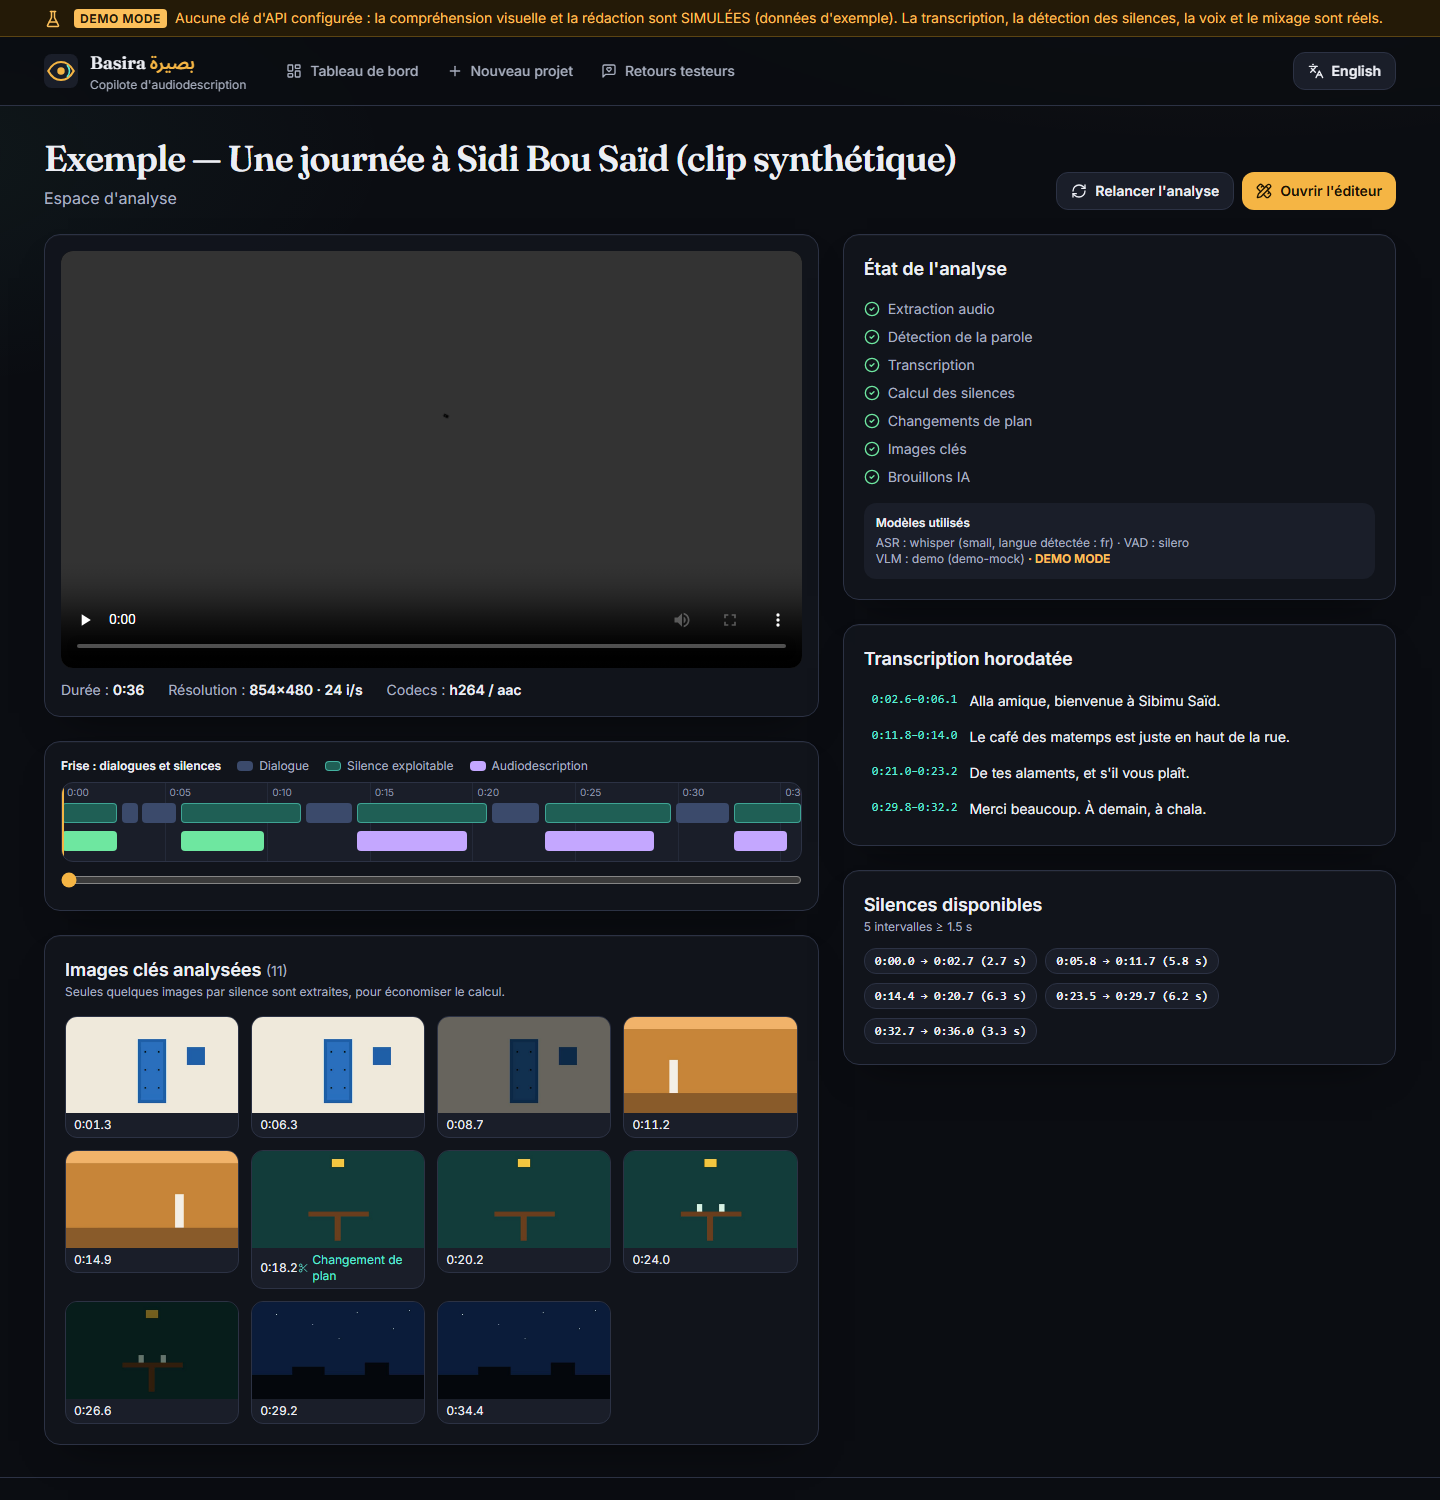
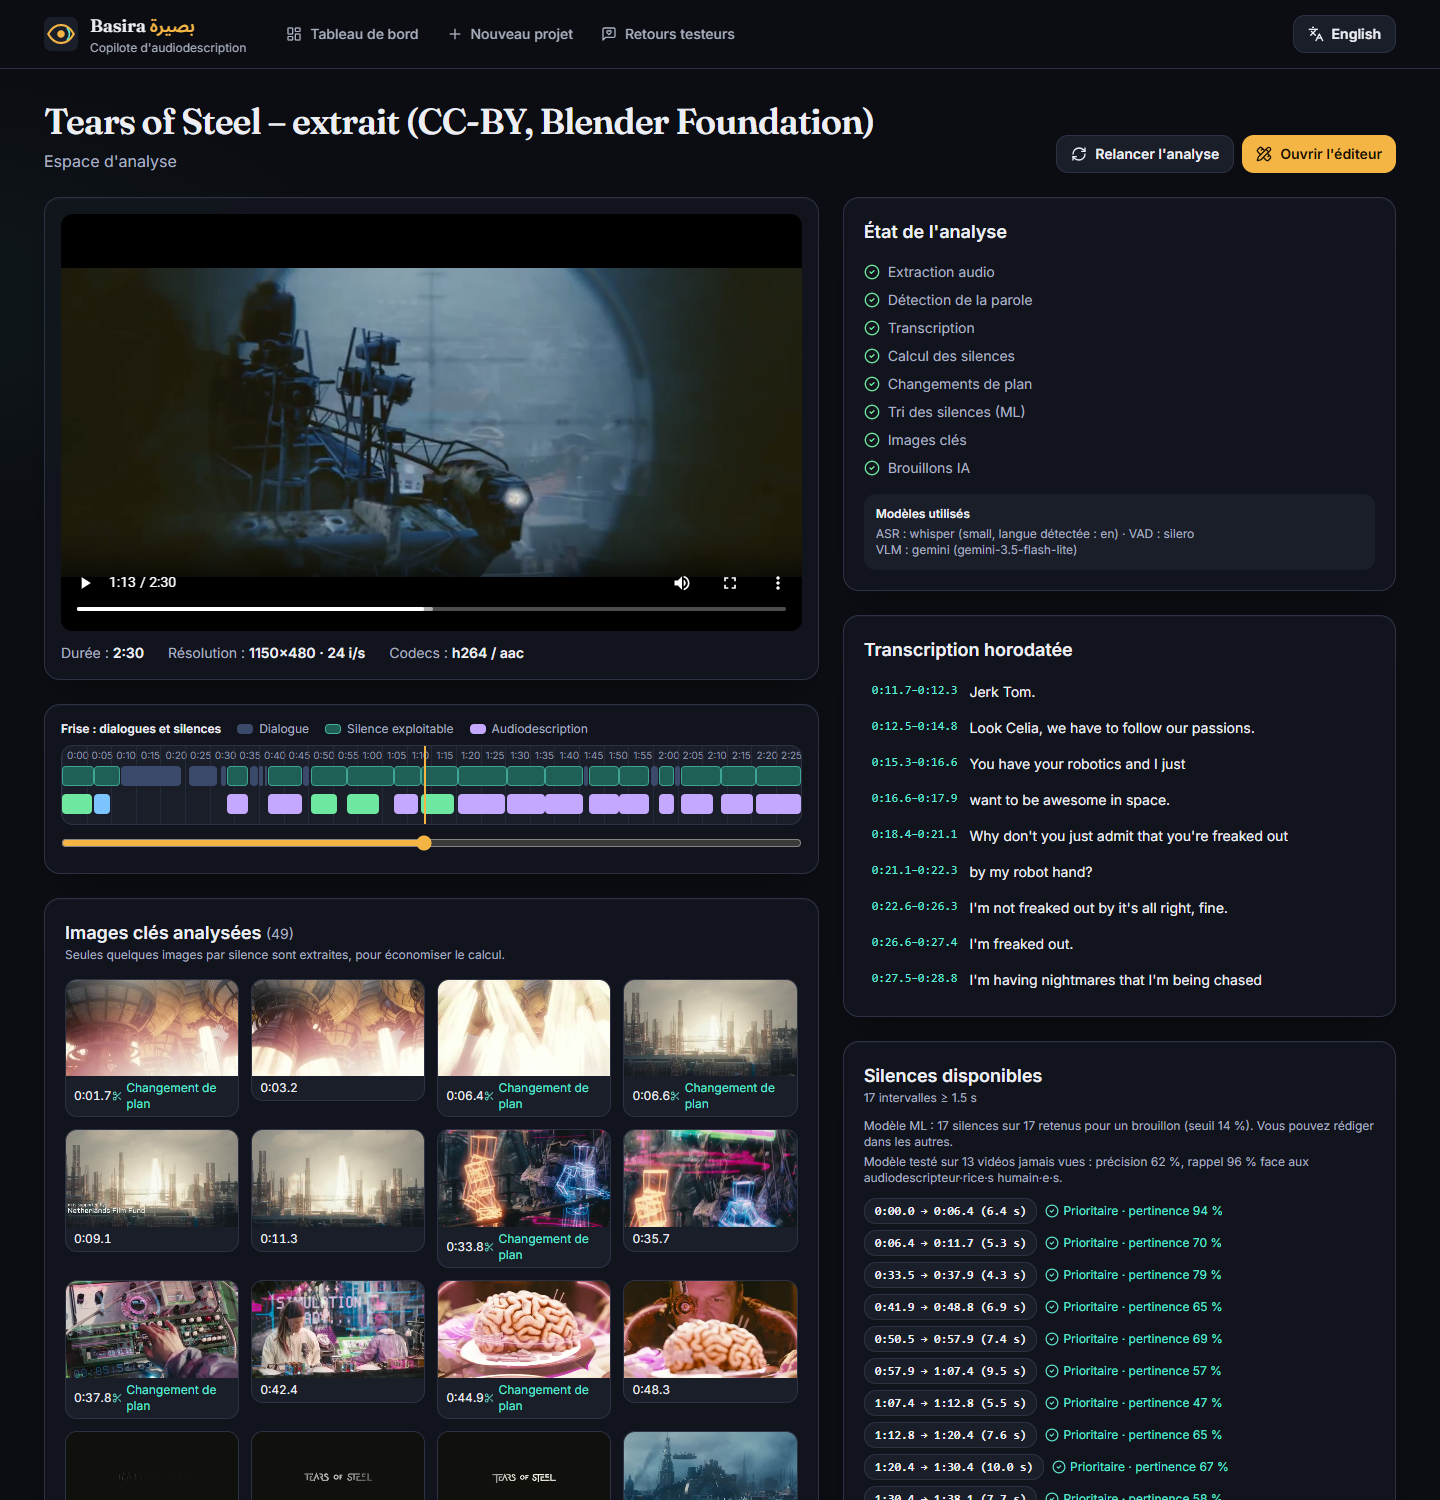
docs: new README screenshots, full walkthrough and test videos
- real Analysis and Editor screenshots (Tears of Steel, CC-BY) with
  ML scores, validated / edited lines and generated voice
- step-by-step path from upload to the audio-described MP4
- scripts/get_test_videos.sh fetches 4 CC-BY Blender extracts
- Gemini free-tier quota explained

diff --git a/README.md b/README.md
@@ -27,13 +27,23 @@ Basira divise le travail d'audiodescription en étapes que l'IA accélère, sans
 
 **Aucune ligne n'est validée automatiquement.** Chaque ligne issue de l'IA reste étiquetée comme telle jusqu'à sa validation par une personne nommée.
 
-![Éditeur d'audiodescription : vidéo, frise dialogues/silences, cartes de description avec statuts](docs/img/editor.png)
+<table>
+<tr>
+<td width="50%" valign="top"><img src="docs/img/analysis.png" alt="Espace d'analyse : vidéo, frise dialogues/silences/audiodescription, étapes de l'analyse, transcription Whisper, images clés et score de pertinence ML de chaque créneau"></td>
+<td width="50%" valign="top"><img src="docs/img/editor.png" alt="Éditeur : nom du validateur, progression 4/17, cartes de description avec les états Validé par un humain et Modifié par un humain, voix générée"></td>
+</tr>
+<tr>
+<td><b>Analyse</b> : Whisper transcrit les dialogues, Basira trouve les silences et les découpe en créneaux, le modèle ML donne à chaque créneau un score de pertinence, puis Gemini rédige à partir des images clés.</td>
+<td><b>Éditeur</b> : chaque brouillon est relu, corrigé, recalé, puis <b>validé par une personne nommée</b>. Seules les lignes validées sont vocalisées et mixées dans le film.</td>
+</tr>
+</table>
+
+<sub>Captures réelles sur un extrait de <i>Tears of Steel</i> (© Blender Foundation, CC-BY 3.0, mango.blender.org) : 17 brouillons rédigés par <code>gemini-3.5-flash-lite</code> en 2 requêtes, 4 lignes validées et vocalisées.</sub>
 
 <details>
-<summary>Autres écrans : tableau de bord, analyse, export</summary>
+<summary>Autres écrans : tableau de bord, export</summary>
 
 ![Tableau de bord](docs/img/dashboard.png)
-![Espace d'analyse](docs/img/analysis.png)
 ![Export et contrôle qualité](docs/img/export.png)
 
 </details>
@@ -58,7 +68,31 @@ Ensuite : **Tableau de bord → « Essayer le clip d'exemple » → Lancer l'ana
 > Au premier lancement de l'analyse, le modèle Whisper `small` (~460 Mo) est téléchargé une seule fois dans le volume `/models`.
 > Sans accès réseau, l'application bascule sur la transcription de démonstration et le signale.
 
-Pour utiliser un vrai modèle de vision, copiez `.env.example` en `.env` et renseignez `GEMINI_API_KEY`, ou `OPENAI_API_KEY` avec `OPENAI_BASE_URL` pour tout serveur compatible OpenAI (vLLM, Ollama…).
+Pour utiliser un vrai modèle de vision, copiez `.env.example` en `.env` et renseignez `GEMINI_API_KEY` ([clé gratuite sur Google AI Studio](https://aistudio.google.com/apikey)), ou `OPENAI_API_KEY` avec `OPENAI_BASE_URL` pour tout serveur compatible OpenAI (vLLM, Ollama…). Relancez ensuite `docker compose up --build`.
+
+> **Quota gratuit Gemini** : environ 20 requêtes par jour et par modèle. Basira décrit 8 créneaux par requête (un extrait de 2 minutes coûte 2 requêtes) et passe automatiquement à un modèle « lite » quand le quota est épuisé.
+
+### Parcours complet : de la vidéo au film audiodécrit
+
+1. **Nouveau projet** : importez la vidéo, cochez le consentement, choisissez la langue de description.
+2. **Analyse → Lancer l'analyse** : silences, créneaux, scores ML et brouillons Gemini (de 30 s à 2 min).
+3. **Éditeur** : indiquez votre nom, relisez chaque ligne et cliquez **Valider** (raccourcis **J/K** pour naviguer, **V** pour valider, **X** pour rejeter). Un brouillon non validé reste muet.
+4. **Export → Générer les voix des lignes validées → Générer l'export**, puis téléchargez `film_audiodecrit.mp4`.
+
+### Vidéos pour tester
+
+```bash
+bash scripts/get_test_videos.sh     # 4 extraits de films libres de la Blender Foundation (CC-BY) dans videos_test/
+```
+
+| Vidéo | Durée | Intérêt |
+|---|---|---|
+| `05_sintel_bande_annonce.mp4` | 52 s | premier essai, environ 1 requête Gemini |
+| `04_caminandes_llama_drama.mp4` | 1 min 30 | animation comique sans dialogue |
+| `01_tears_of_steel_dialogue.mp4` | 2 min 30 | prises de vue réelles, dialogues et silences (celle des captures) |
+| `03_spring_sans_dialogue.mp4` | 2 min 30 | aucun dialogue : découpage en créneaux de 10 s |
+
+Licence CC-BY : vous pouvez les montrer en public en citant l'œuvre et la Blender Foundation (crédits dans `videos_test/CREDITS.md`). Pour comparer avec de **vraies audiodescriptions humaines**, utilisez les 13 vidéos de test QuerYD téléchargées par `python ml/run_all.py` (voir [ml/README.md](ml/README.md)).
 
 ## Architecture
 
@@ -176,6 +210,7 @@ Toutes les variables sont documentées dans [`.env.example`](.env.example).
 | `WHISPER_DEVICE` / `WHISPER_COMPUTE_TYPE` | `cpu` / `int8` | `cuda` / `float16` sur GPU (`docker-compose.gpu.yml`) |
 | `VLM_PROVIDER` | `auto` | `gemini` · `openai` · `demo` · `auto` (selon les clés présentes) |
 | `GEMINI_API_KEY`, `GEMINI_MODEL` | — / `gemini-3.6-flash` | Fournisseur Gemini |
+| `GEMINI_FALLBACK_MODELS` / `VLM_BATCH_SIZE` | `gemini-3.5-flash-lite,gemini-flash-lite-latest` / `8` | Modèles de secours quand le quota du jour est épuisé ; créneaux décrits par requête |
 | `OPENAI_API_KEY`, `OPENAI_BASE_URL`, `OPENAI_MODEL` | — / OpenAI / `gpt-4o-mini` | Tout serveur compatible OpenAI |
 | `TTS_PROVIDER` | `auto` | `edge` → `espeak` → `demo` |
 | `TTS_VOICE_FR` / `_AR` / `_EN` | Denise / Reem (ar-TN) / Sonia | Voix |
@@ -205,7 +240,7 @@ Raccourcis : `make install`, `make backend`, `make frontend`, `make test`, `make
 ## Tests
 
 ```bash
-cd backend && pytest -q        # 26 tests : silences/VAD réel, découpage en créneaux, ajustement, VTT/TTML/crédits, fournisseurs (HTTP simulé), variables et sélection ML, parcours API complet
+cd backend && pytest -q        # 32 tests : silences/VAD réel, découpage en créneaux, ajustement, VTT/TTML/crédits, fournisseurs (HTTP simulé), quota Gemini et requêtes groupées, variables et sélection ML, parcours API complet
 ruff check .                   # lint
 cd ../frontend && npm run build
 ```
@@ -224,7 +259,7 @@ cd ../frontend && npm run build
 ## Limites honnêtes
 
 - **DEMO MODE** : sans clé d'API, la compréhension visuelle est **simulée**. Pour le clip d'exemple, elle renvoie un script de référence écrit à la main ; pour toute autre vidéo, une ligne générique calculée à partir des couleurs réelles de l'image, à faible confiance. La bannière et les exports le signalent.
-- **Gemini** a été testé avec une vraie clé (`gemini-3.6-flash`). Sous forte demande, l'API répond lentement (17 à 55 s par requête) ou refuse temporairement ; Basira refait alors jusqu'à 3 tentatives. L'intégration OpenAI-compatible n'est testée qu'avec des réponses HTTP simulées.
+- **Gemini** a été testé avec une vraie clé. La version gratuite n'autorise qu'**environ 20 requêtes par jour et par modèle**. Basira décrit donc **8 créneaux par requête** (un extrait de 2 minutes coûte 2 requêtes) et passe automatiquement à un modèle « lite » quand le quota du jour est épuisé. Si tous les quotas sont épuisés, l'analyse se termine quand même, avec les brouillons déjà écrits ; les créneaux restants se rédigent plus tard avec « Rédiger ici » ou à la main. L'intégration OpenAI-compatible n'est testée qu'avec des réponses HTTP simulées.
 - **Réel pendant le hackathon** : FFmpeg, Silero VAD, faster-whisper `small` sur CPU, Gemini, edge-tts (FR et ar-TN), mixage, exports, entraînement et évaluation du modèle ML sur 30 vidéos.
 - **Modèle ML** : entraîné sur 17 vidéos seulement, avec des descriptions bénévoles en anglais. Il apprend *où* décrire, pas *quoi* ni dans quelle langue, et ne bat pas encore la règle « tout décrire » (voir [les résultats](#apprentissage-automatique--où-décrire-)). Son transfert vers des films tunisiens reste à vérifier.
 - **Darija** : Whisper générique transcrit mal la darija et l'alternance arabe/français ; la voix `ar-TN` lit le darija de façon approximative. D'où l'enregistrement de voix humaine et le fine-tuning prévu.
